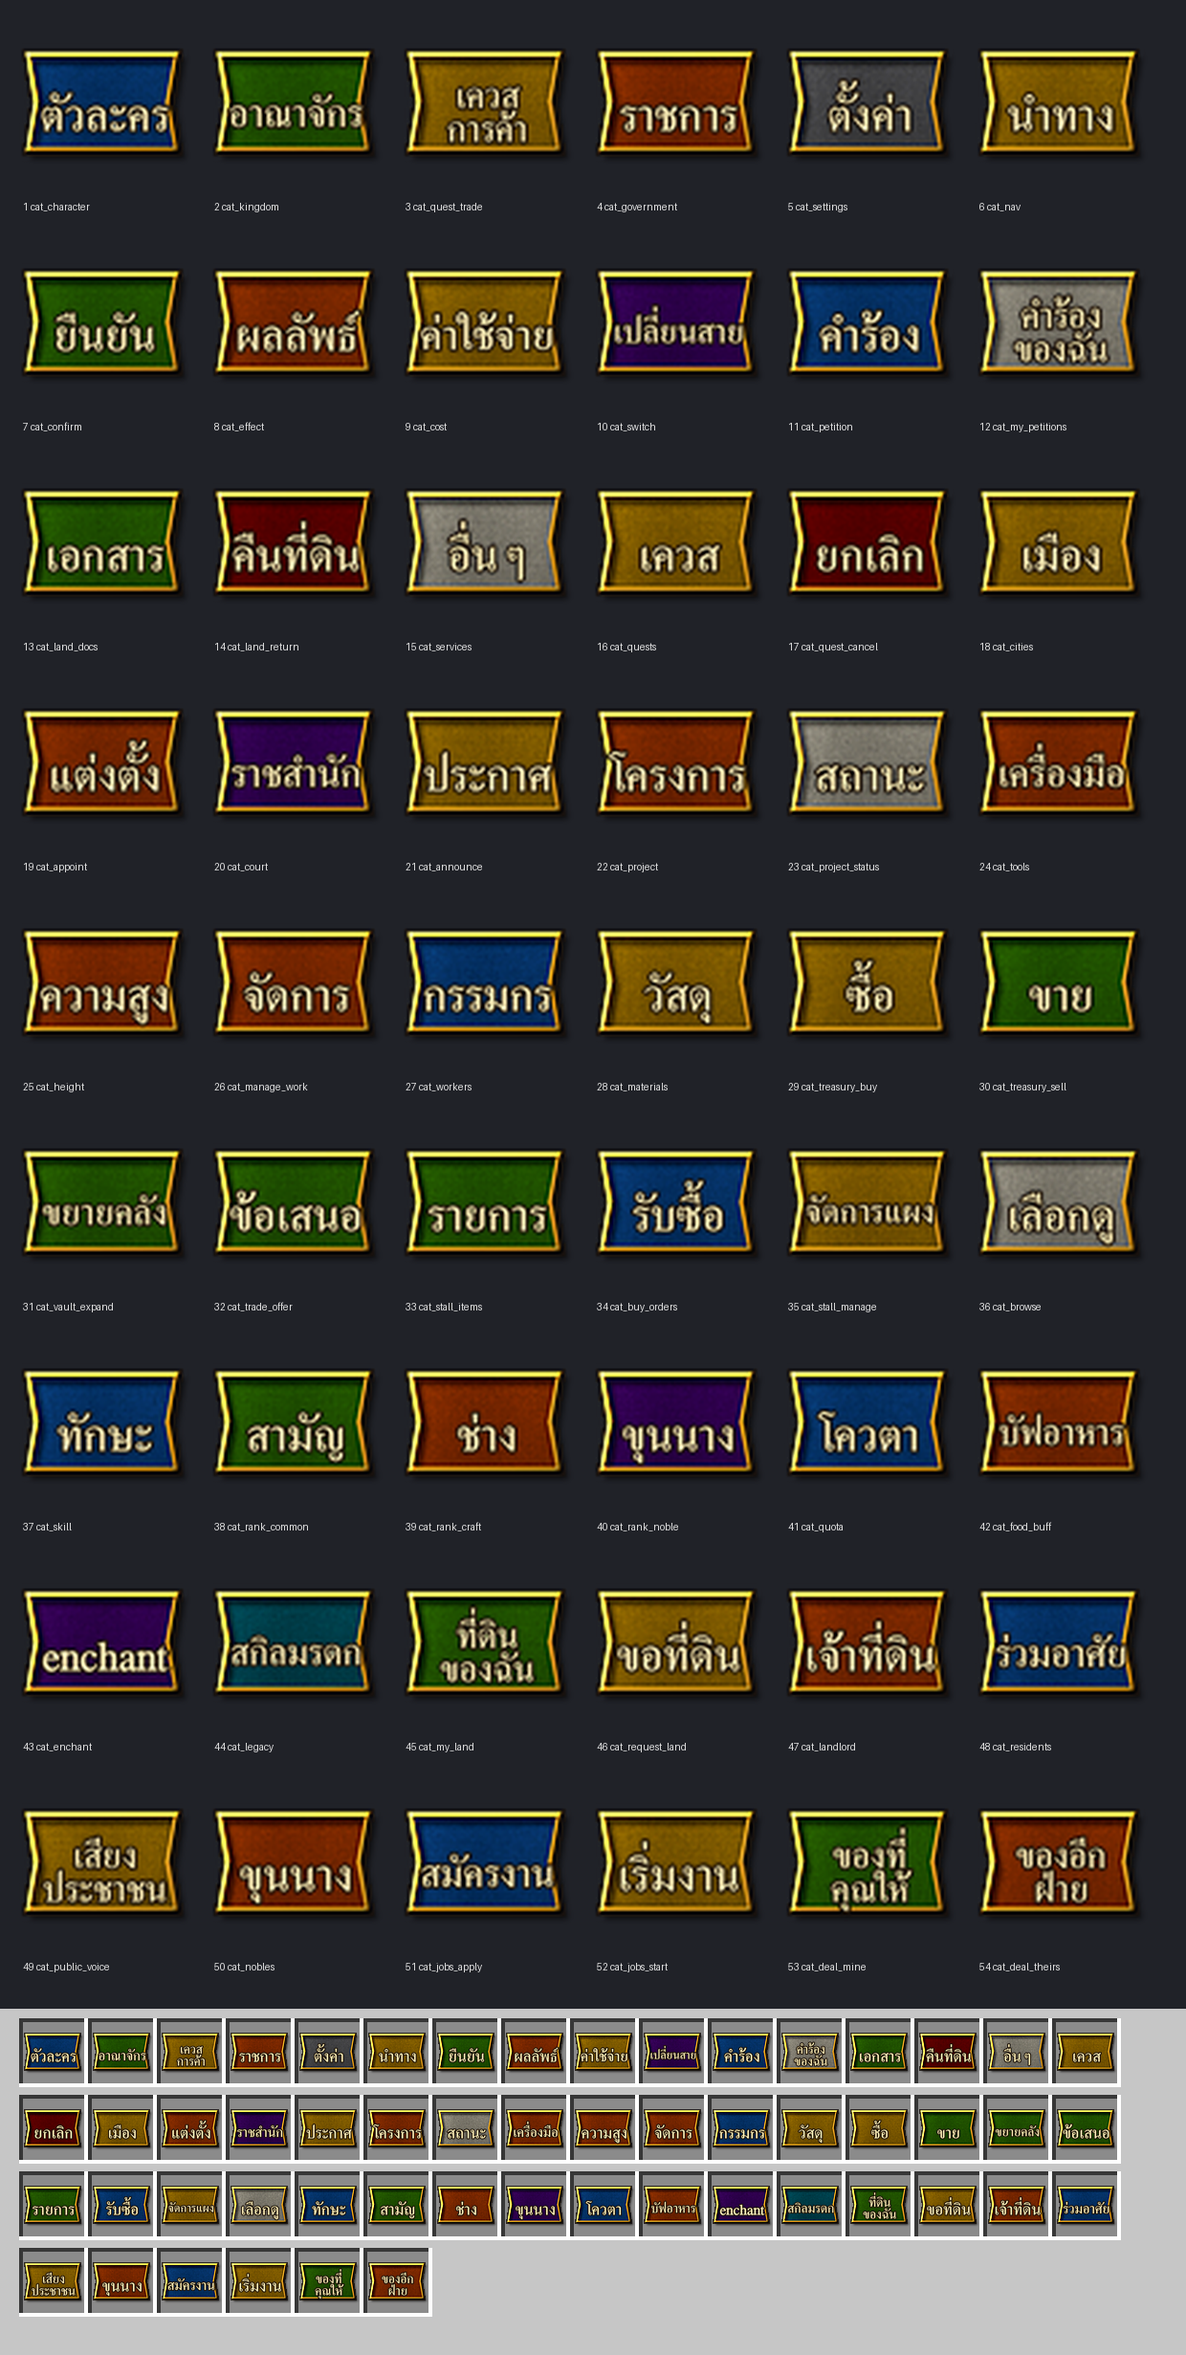
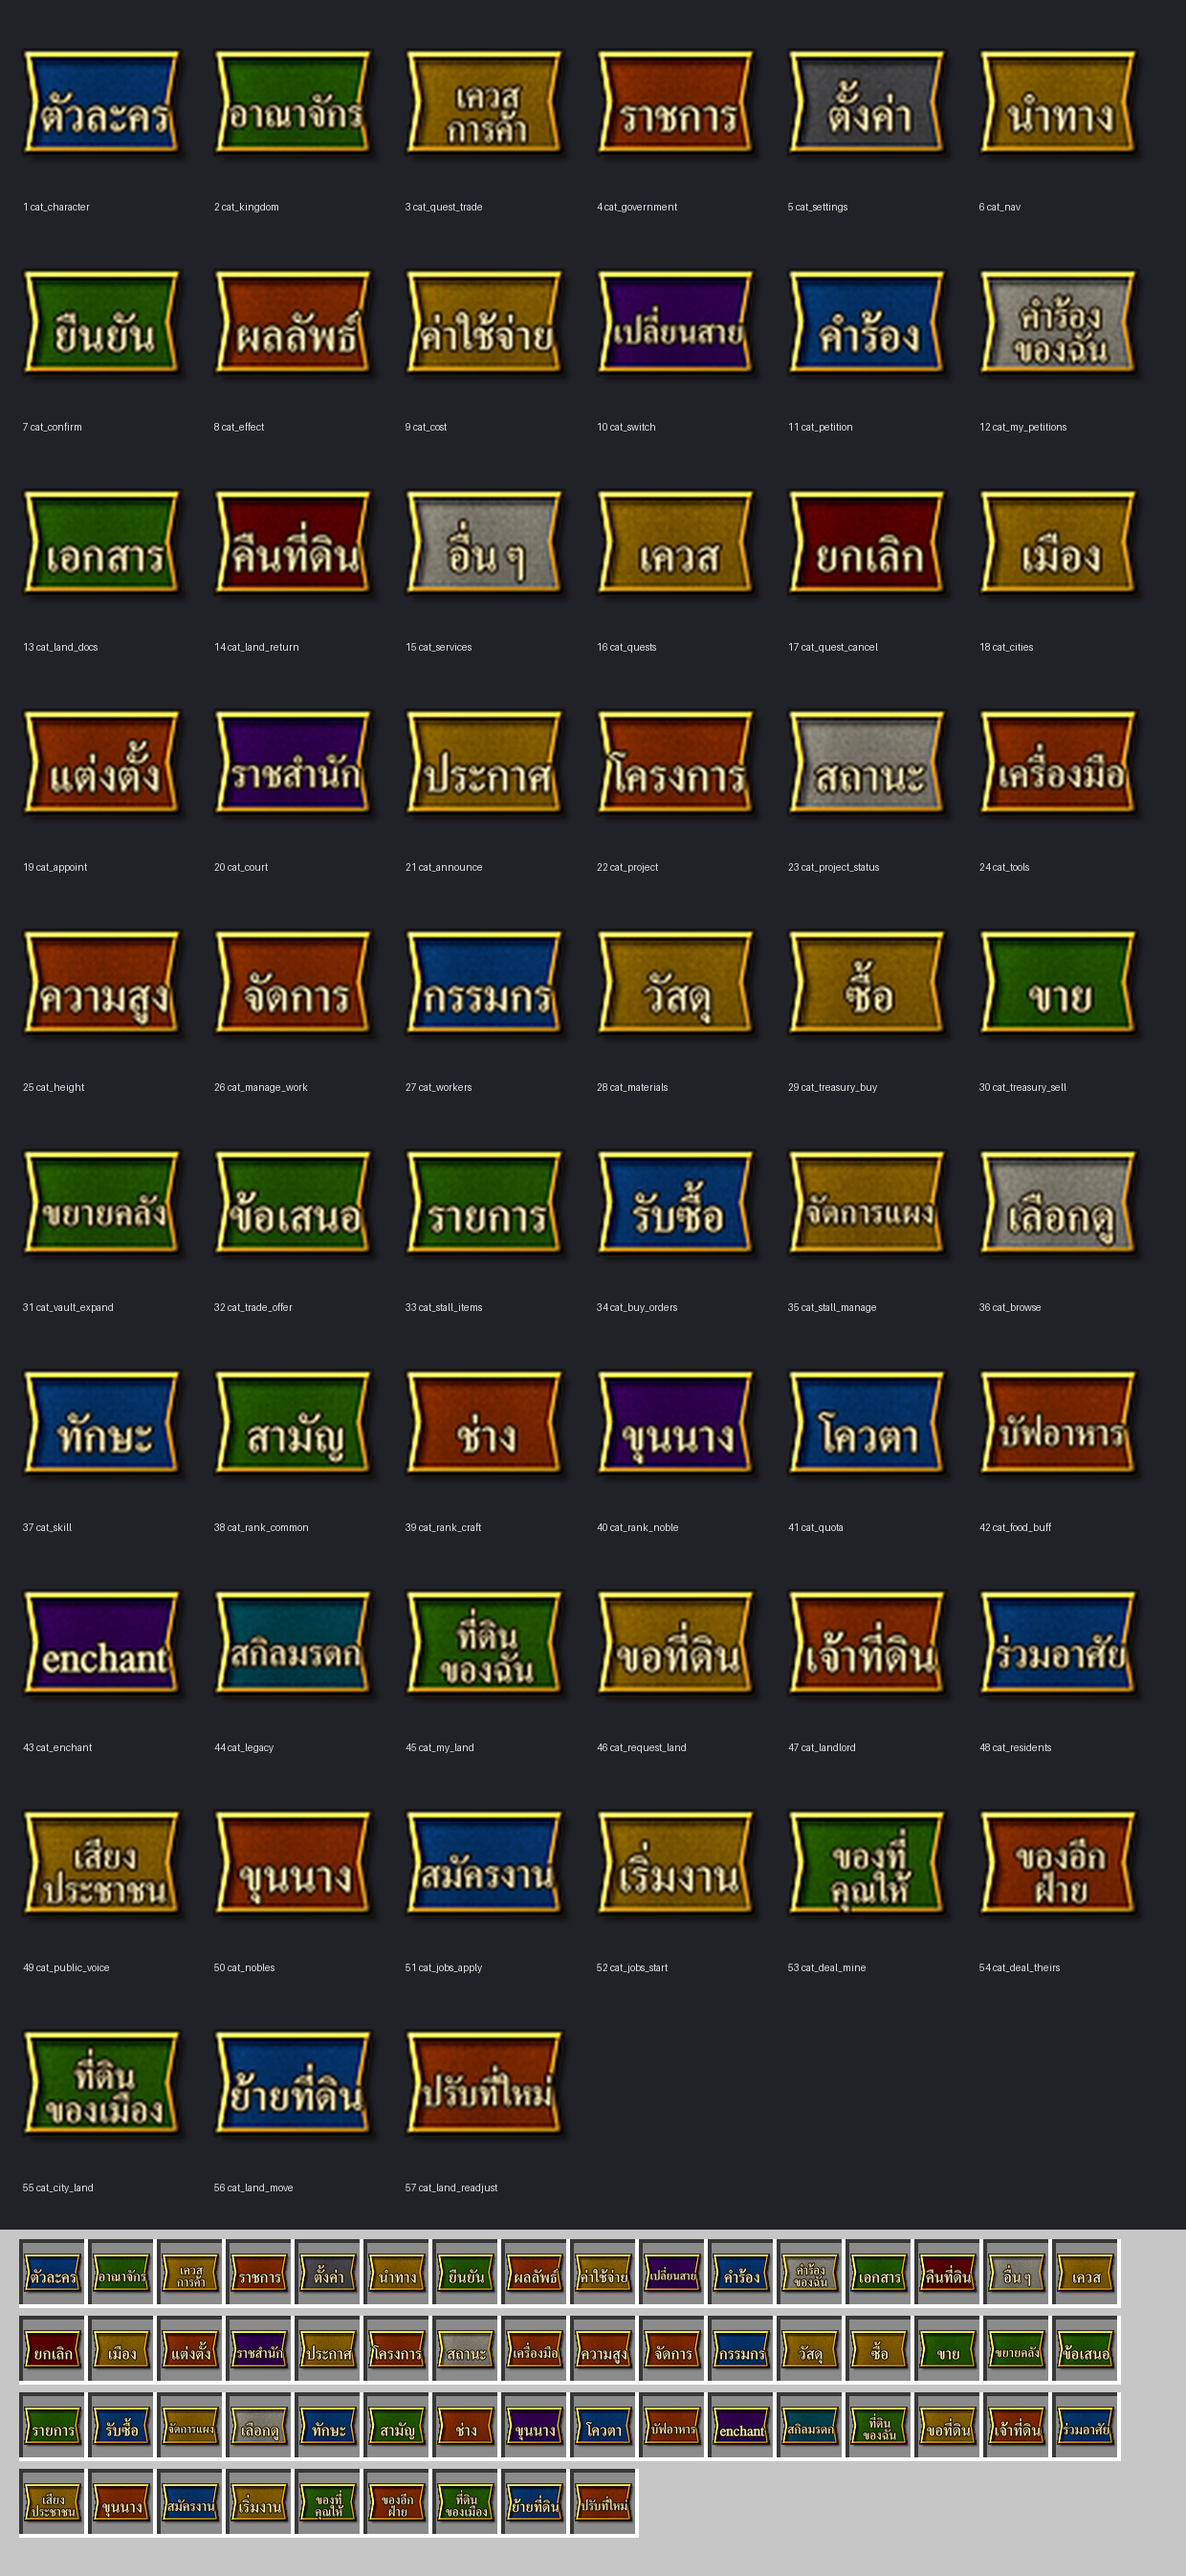
Categories for the new land-readjustment labels (city land, move, readjust)
Claude-Session: https://claude.ai/code/session_01Wt14YeDycbXXSA1WJ5r3Kn

diff --git a/tools/icons/cat_city_land.py b/tools/icons/cat_city_land.py
@@ -1,0 +1,9 @@
+"""หมวด "ที่ดิน ของเมือง" (ที่ดินของเมือง): lime ribbon with the words. Generated from categories.tsv."""
+from _category import ribbon
+
+COLOR = 'LIME'
+TEXT = 'ที่ดิน\nของเมือง'
+
+
+def draw():
+    return ribbon(COLOR, 54)

diff --git a/tools/icons/cat_land_readjust.py b/tools/icons/cat_land_readjust.py
@@ -1,0 +1,9 @@
+"""หมวด "ปรับที่ใหม่" (ปรับที่ใหม่): orange ribbon with the words. Generated from categories.tsv."""
+from _category import ribbon
+
+COLOR = 'ORANGE'
+TEXT = 'ปรับที่ใหม่'
+
+
+def draw():
+    return ribbon(COLOR, 56)

diff --git a/tools/icons/cat_land_move.py b/tools/icons/cat_land_move.py
@@ -1,0 +1,9 @@
+"""หมวด "ย้ายที่ดิน" (ย้ายที่ดิน): light blue ribbon with the words. Generated from categories.tsv."""
+from _category import ribbon
+
+COLOR = 'LIGHT_BLUE'
+TEXT = 'ย้ายที่ดิน'
+
+
+def draw():
+    return ribbon(COLOR, 55)

diff --git a/ICONS.md b/ICONS.md
@@ -250,7 +250,7 @@ Generated by `tools/build.py` from `tools/stages.py` and each icon's docstring. 
 | `admin_player_menu` | เมนูผู้เล่น (ราชการ) (Admin): the roster icon with a key badge. |
 | `admin_city_tier` | เลื่อน/ลดขั้นเมือง (Admin): the capital icon with a star badge. |
 
-## Stage9 — หมวดหมู่ (ป้ายซ้ายแถว, ตัวหนังสือ) (54)
+## Stage9 — หมวดหมู่ (ป้ายซ้ายแถว, ตัวหนังสือ) (57)
 
 ![stage9](preview/stage9.png)
 
@@ -310,3 +310,6 @@ Generated by `tools/build.py` from `tools/stages.py` and each icon's docstring. 
 | `cat_jobs_start` | หมวด "เริ่มงาน" (เริ่มงาน): yellow ribbon with the words. Generated from categories.tsv. |
 | `cat_deal_mine` | หมวด "ของที่ คุณให้" (ของที่คุณให้): lime ribbon with the words. Generated from categories.tsv. |
 | `cat_deal_theirs` | หมวด "ของอีก ฝ่าย" (ของที่): orange ribbon with the words. Generated from categories.tsv. |
+| `cat_city_land` | หมวด "ที่ดิน ของเมือง" (ที่ดินของเมือง): lime ribbon with the words. Generated from categories.tsv. |
+| `cat_land_move` | หมวด "ย้ายที่ดิน" (ย้ายที่ดิน): light blue ribbon with the words. Generated from categories.tsv. |
+| `cat_land_readjust` | หมวด "ปรับที่ใหม่" (ปรับที่ใหม่): orange ribbon with the words. Generated from categories.tsv. |

diff --git a/README.md b/README.md
@@ -12,7 +12,7 @@ plugin's config.yml, by a commit-pinned raw URL and SHA-1). A menu button shows 
 
 ## Icons
 
-All 247 icons (246 for buttons and row categories + the `slab` base), stage by stage with a preview sheet each, are
+All 250 icons (249 for buttons and row categories + the `slab` base), stage by stage with a preview sheet each, are
 listed in **[ICONS.md](ICONS.md)** (generated by `tools/build.py`). Stage 0 (`treasury`) is handed out
 on the server; stages 1-9 are drafts (stage 9: the row-category pennants) until the server's config is pointed at a newer commit.
 
